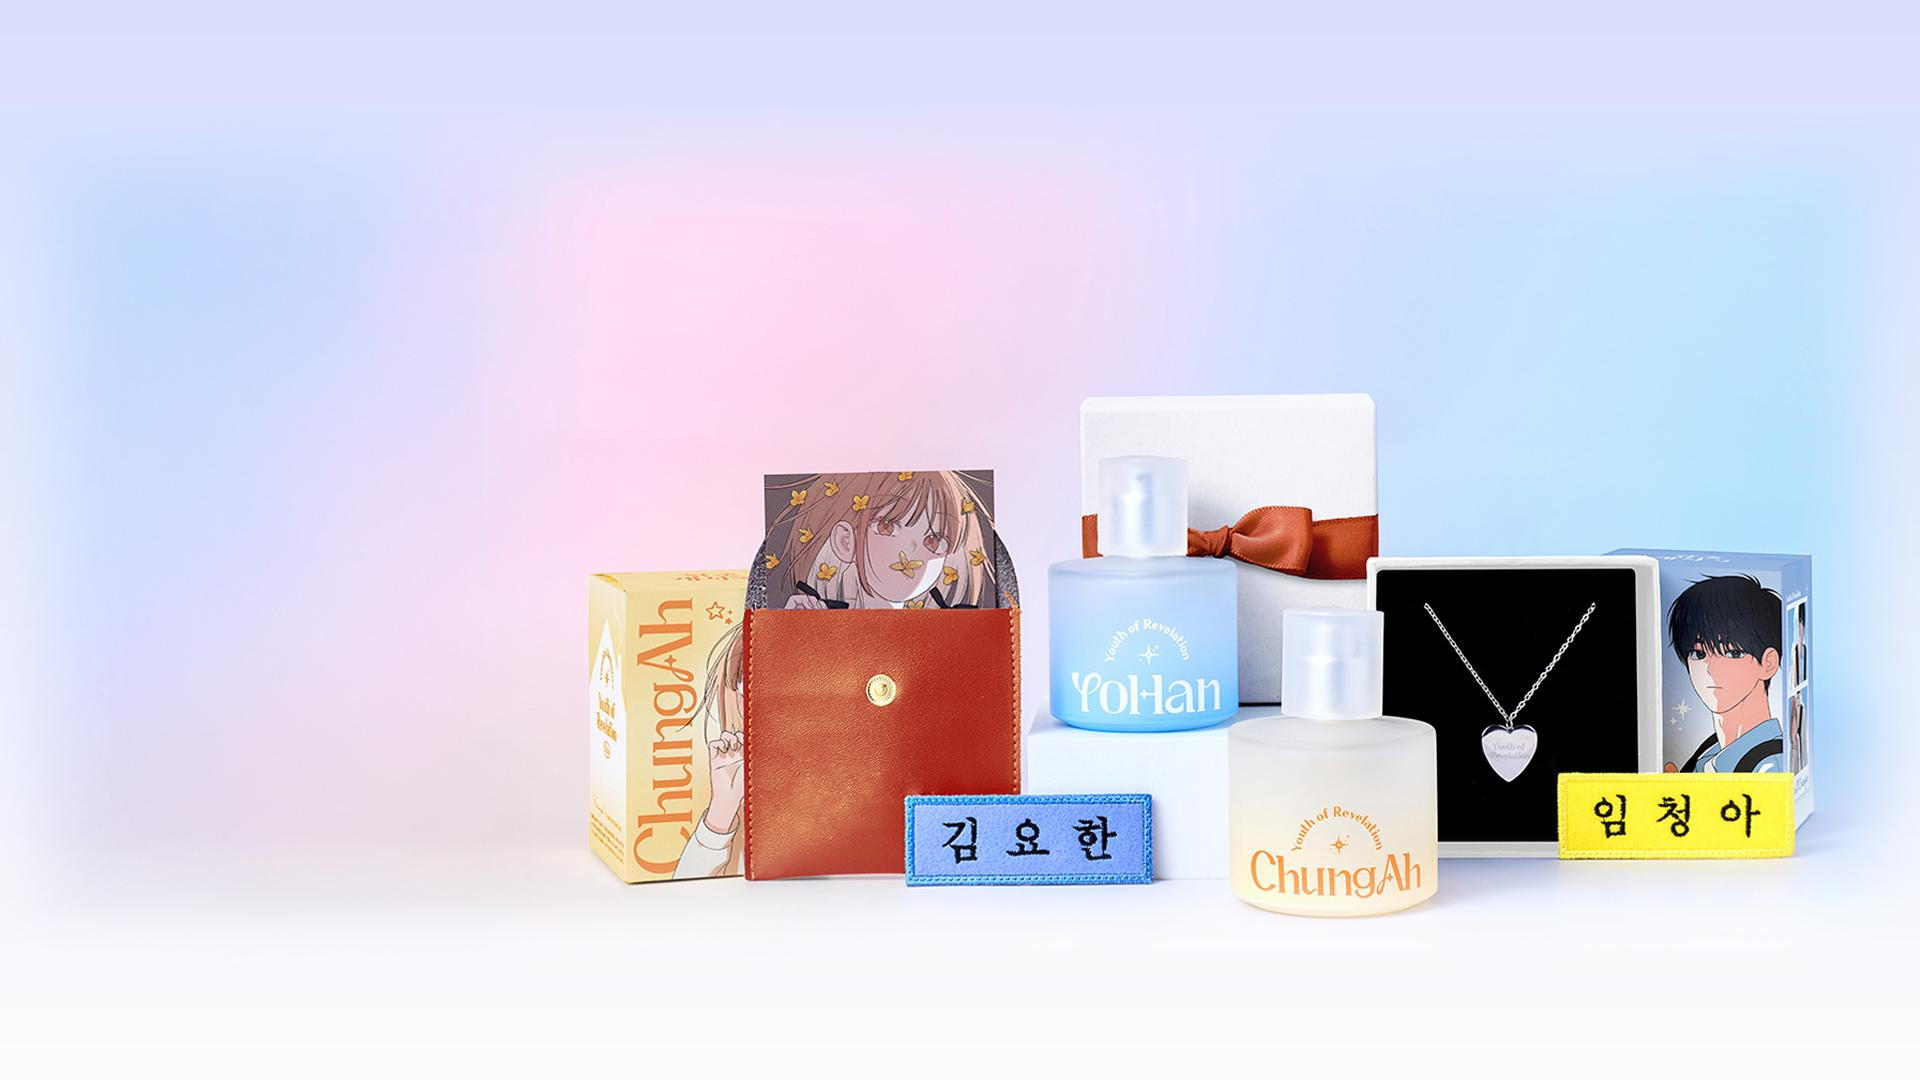
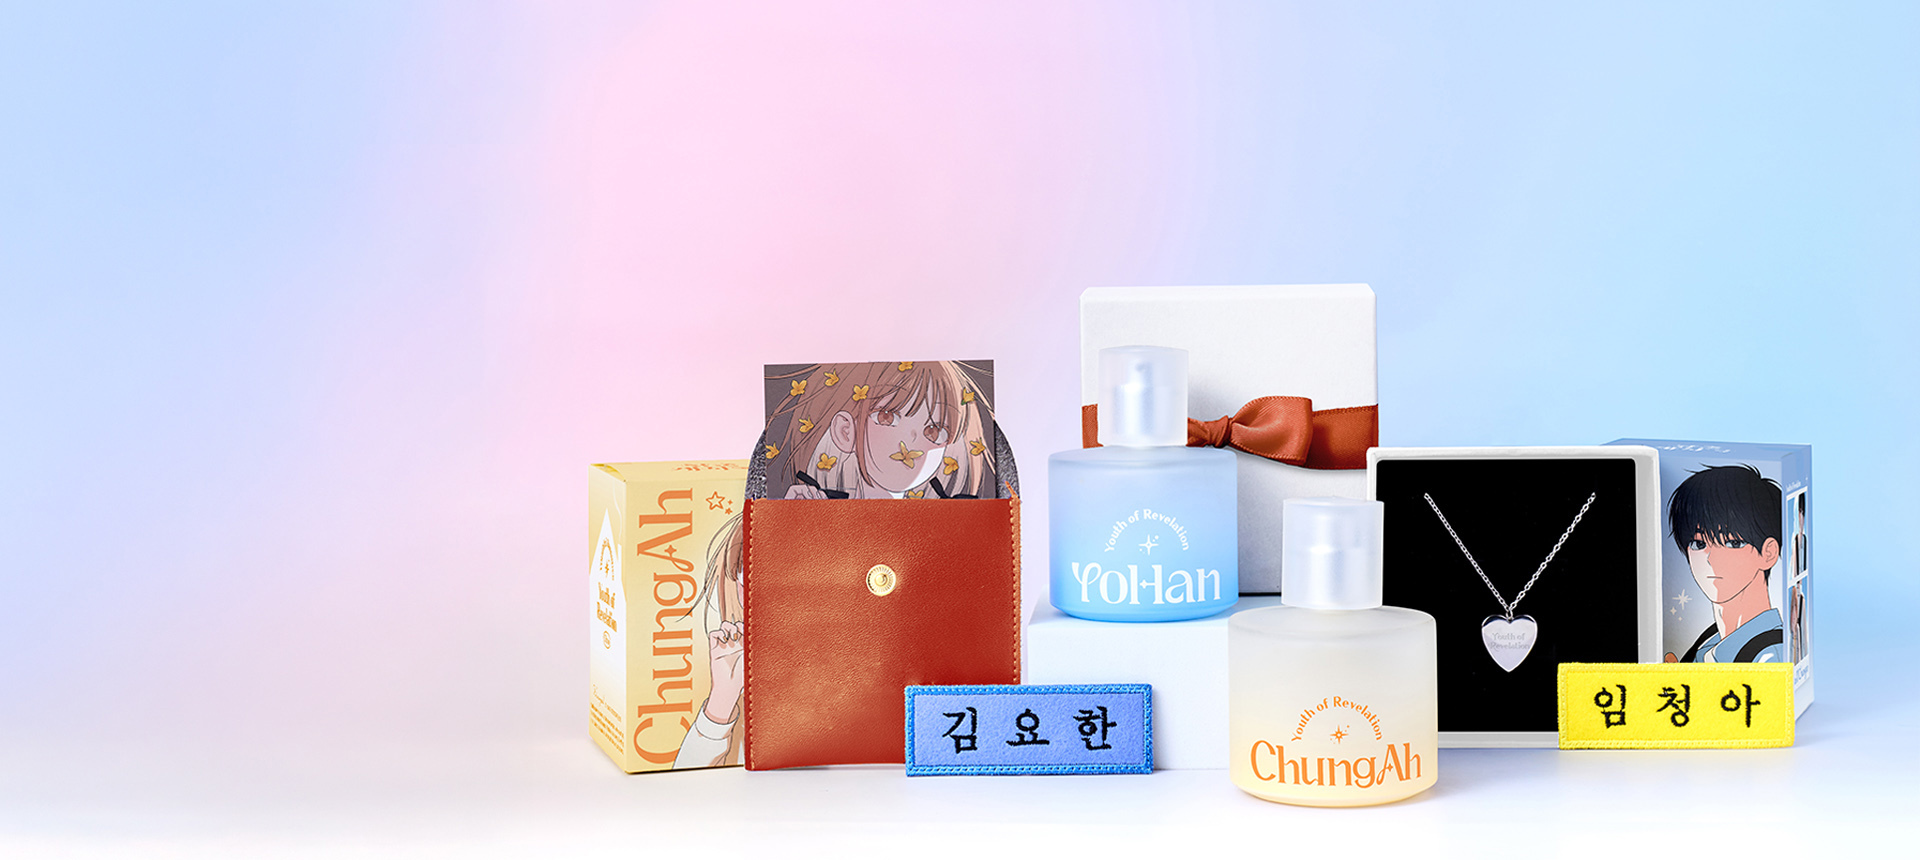
슬라이드 이미지 변경

diff --git a/client/src/components/Header.jsx b/client/src/components/Header.jsx
@@ -1,56 +1,61 @@
 import "./css/Header.css";
 import bg1 from "../assets/bg1.jpg";
 import bg2 from "../assets/bg2.png";
-import bg3 from "../assets/bg3.png";
+import bg3 from "../assets/bg3.jpg";
+import bg4 from "../assets/bg4.jpg";
+import bg5 from "../assets/bg5.jpg";
+import bg6 from "../assets/bg6.jpg";
+import bg7 from "../assets/bg7.jpg";
+import bg8 from "../assets/bg8.jpg";
 import { useEffect, useState } from "react";
 
-const sliderImages = [bg1, bg2, bg3];
+const sliderImages = [bg1, bg2, bg3, bg4, bg5, bg6, bg7, bg8];
 
 function Header() {
-  const [currentIndex, setCurrentIndex] = useState(0);
+   const [currentIndex, setCurrentIndex] = useState(0);
 
-  useEffect(() => {
-    const interval = setInterval(() => {
-      setCurrentIndex((prev) => (prev + 1) % sliderImages.length);
-    }, 3000);
-    return () => clearInterval(interval);
-  }, []);
+   useEffect(() => {
+      const interval = setInterval(() => {
+         setCurrentIndex((prev) => (prev + 1) % sliderImages.length);
+      }, 3000);
+      return () => clearInterval(interval);
+   }, []);
 
-  return (
-    <div className="slider">
-      <div
-        className="slides"
-        style={{ transform: `translateX(-${currentIndex * 100}vw)` }}
-      >
-        {sliderImages.map((img, i) => (
-          <div
-            key={i}
-            className="slide"
-            style={{ backgroundImage: `url(${img})` }}
-            onClick={() => console.log(`배경 클릭됨`)}
-          ></div>
-        ))}
+   return (
+      <div className="slider">
+         <div
+            className="slides"
+            style={{ transform: `translateX(-${currentIndex * 100}vw)` }}
+         >
+            {sliderImages.map((img, i) => (
+               <div
+                  key={i}
+                  className="slide"
+                  style={{ backgroundImage: `url(${img})` }}
+                  onClick={() => console.log(`배경 클릭됨`)}
+               ></div>
+            ))}
+         </div>
+
+         <div className="pagination">
+            {sliderImages.map((_, i) => (
+               <button
+                  key={i}
+                  className={`dot ${currentIndex === i ? "active" : ""}`}
+                  onClick={() => setCurrentIndex(i)}
+                  aria-label={`Go to slide ${i + 1}`}
+               ></button>
+            ))}
+         </div>
+
+         <div className="overlay">
+            <div className="center-text">
+               <h1>웹툰 굿즈들을 이곳에서!</h1>
+               <p>우리 함께 덕질해요</p>
+            </div>
+         </div>
       </div>
-
-      <div className="pagination">
-        {sliderImages.map((_, i) => (
-          <button
-            key={i}
-            className={`dot ${currentIndex === i ? "active" : ""}`}
-            onClick={() => setCurrentIndex(i)}
-            aria-label={`Go to slide ${i + 1}`}
-          ></button>
-        ))}
-      </div>
-
-      <div className="overlay">
-        <div className="center-text">
-          <h1>웹툰 굿즈들을 이곳에서!</h1>
-          <p>우리 함께 덕질해요</p>
-        </div>
-      </div>
-    </div>
-  );
+   );
 }
 
 export default Header;
